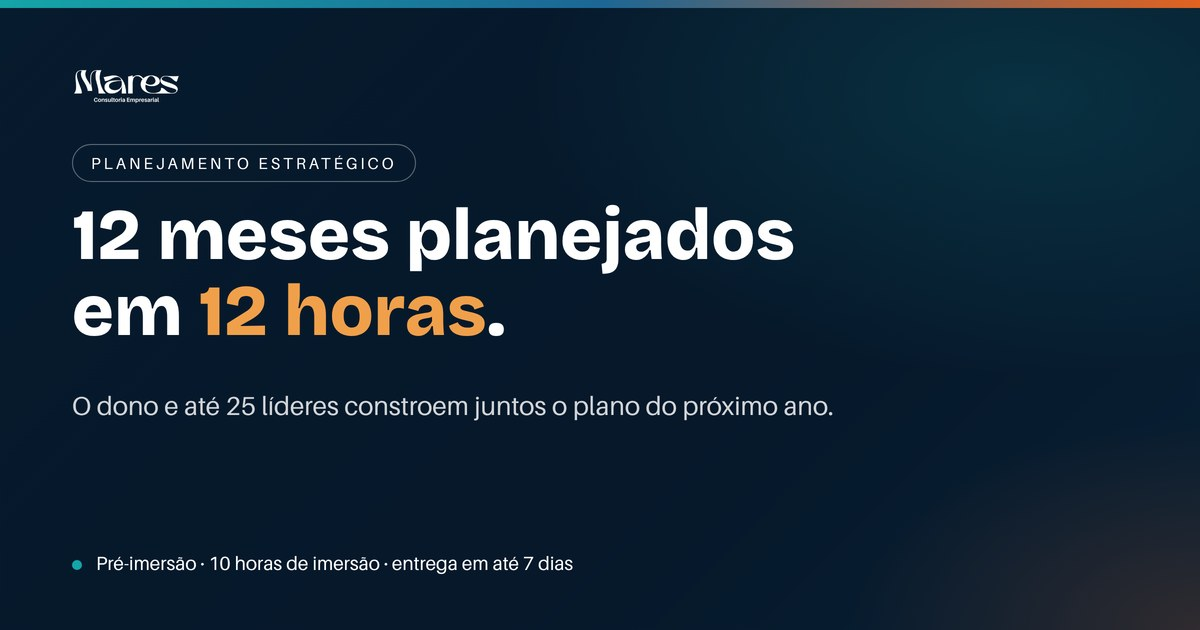
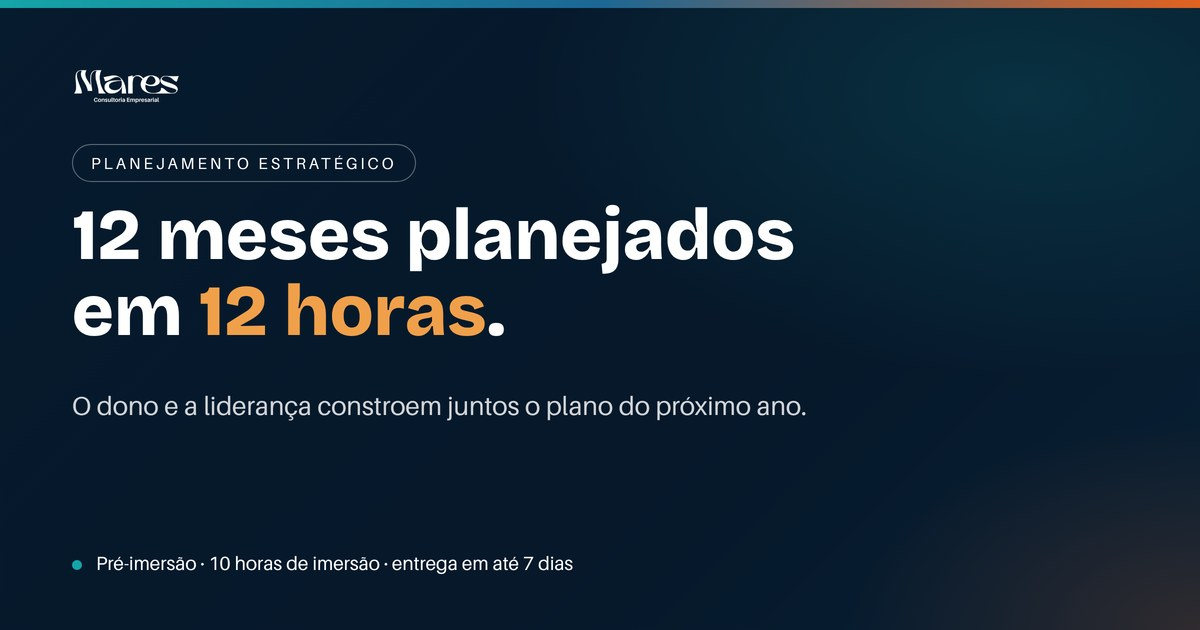
Planejamento Estrategico: tira o destaque do limite de 25 lideres
Claude-Session: https://claude.ai/code/session_01JuXMpkEk4hr855rw9DhNrZ

Changed region(s): [[0.1542, 0.6333, 0.7092, 0.6635]]

diff --git a/planejamento-estrategico/index.html b/planejamento-estrategico/index.html
@@ -4,7 +4,7 @@
 <meta charset="UTF-8">
 <meta name="viewport" content="width=device-width, initial-scale=1.0">
 <title>Planejamento Estratégico em 12 horas | MARES</title>
-<meta name="description" content="Planejamento estratégico com o dono e até 25 líderes: em 12 horas, pelo Método MARES, sua empresa sai com o plano dos próximos 12 meses.">
+<meta name="description" content="Planejamento estratégico com o dono e a sua liderança: em 12 horas, pelo Método MARES, sua empresa sai com o plano dos próximos 12 meses.">
 <link rel="canonical" href="https://www.maresconsultoria.com.br/planejamento-estrategico/">
 <meta property="og:type" content="website">
 <meta property="og:site_name" content="MARES Consultoria Empresarial">
@@ -42,7 +42,7 @@ fbq('init','673278761920486');fbq('track','PageView');
  "name": "12 Meses em 12 Horas",
  "alternateName": "Planejamento Estratégico MARES",
  "serviceType": "Planejamento estratégico empresarial",
- "description": "Planejamento estratégico feito com o dono e até 25 líderes, em 12 horas: 1 hora de pré-imersão com os donos, 10 horas de imersão pelos pilares do Método MARES e 1 hora de entrega final do plano dos próximos 12 meses, em até 7 dias. Formato híbrido.",
+ "description": "Planejamento estratégico feito com o dono e a sua liderança, em 12 horas: 1 hora de pré-imersão com os donos, 10 horas de imersão pelos pilares do Método MARES e 1 hora de entrega final do plano dos próximos 12 meses, em até 7 dias. Formato híbrido.",
  "provider": {
   "@type": "Organization",
   "name": "MARES Consultoria Empresarial",
@@ -73,7 +73,7 @@ fbq('init','673278761920486');fbq('track','PageView');
    "name": "Quem precisa estar na sala?",
    "acceptedAnswer": {
     "@type": "Answer",
-    "text": "O dono e os líderes que respondem por resultado, até 25 pessoas. O dono conduz a estratégia. Os líderes constroem junto, porque plano que o time não ajudou a desenhar é plano que o time não executa."
+    "text": "O dono e os líderes que respondem por resultado, sejam 2 ou 20. Funciona para empresa pequena e para empresa com várias áreas, porque o que muda é a conversa, e não o método. O dono conduz a estratégia. Os líderes constroem junto, porque plano que o time não ajudou a desenhar é plano que o time não executa."
    }
   },
   {
@@ -167,7 +167,7 @@ fbq('init','673278761920486');fbq('track','PageView');
     <div class="eyebrow">Planejamento Estratégico · 12 Meses em 12 Horas</div>
     <h1 class="hero-title">O próximo ano da sua empresa, planejado em 12 horas.</h1>
     <div class="gradbar"></div>
-    <p class="resposta-direta">O <strong>12 Meses em 12 Horas</strong> é o planejamento estratégico da MARES feito com o dono e até 25 líderes. São 12 horas no total: 1 hora de pré-imersão com os donos, <strong>10 horas de imersão</strong> com a liderança, organizadas pelos pilares do Método MARES, e 1 hora de entrega final. Em até 7 dias a empresa recebe o <strong>plano dos próximos 12 meses</strong>, construído por quem vai executar. Formato híbrido, na sua empresa ou online.</p>
+    <p class="resposta-direta">O <strong>12 Meses em 12 Horas</strong> é o planejamento estratégico da MARES feito com o dono e os líderes da sua empresa, sejam dois ou vinte. São 12 horas no total: 1 hora de pré-imersão com os donos, <strong>10 horas de imersão</strong> com a liderança, organizadas pelos pilares do Método MARES, e 1 hora de entrega final. Em até 7 dias a empresa recebe o <strong>plano dos próximos 12 meses</strong>, construído por quem vai executar. Formato híbrido, na sua empresa ou online.</p>
     <div class="cta-row"><a class="btn" href="#conversa">Quero planejar o próximo ano</a></div>
   </div>
 </section>
@@ -193,7 +193,7 @@ fbq('init','673278761920486');fbq('track','PageView');
   <div class="container">
     <div class="eyebrow">Como funciona</div>
     <h2 class="sec-title">12 horas, do alinhamento com o dono ao plano na mão</h2>
-    <p class="lead">O dono conduz a estratégia. Os líderes constroem junto, numa discussão colaborativa com dado na mesa. Até 25 pessoas na sala, em formato híbrido.</p>
+    <p class="lead">O dono conduz a estratégia. Os líderes constroem junto, numa discussão colaborativa com dado na mesa. Em formato híbrido, na sua empresa ou online.</p>
     <div class="steps">
       <div class="step"><div class="sn"></div><h4>Pré-imersão com os donos</h4><p>1 hora, obrigatória. Alinha o que o dono quer do próximo ano antes de abrir a conversa com os líderes.</p></div>
       <div class="step"><div class="sn"></div><h4>Imersão de 10 horas</h4><p>Dono e líderes constroem o plano pelos pilares do Método MARES. Pode ser dividida em mais de um encontro, e é o que eu recomendo.</p></div>
@@ -247,7 +247,7 @@ fbq('init','673278761920486');fbq('track','PageView');
     <div class="stats" id="statsband">
       <div class="stat"><div class="num">12 h</div><div class="lbl">de trabalho, do alinhamento com o dono à entrega do plano</div></div>
       <div class="stat"><div class="num">12 meses</div><div class="lbl">de plano, com meta, dono e prazo em cada frente</div></div>
-      <div class="stat"><div class="num">25</div><div class="lbl">líderes na sala, no máximo, construindo junto com o dono</div></div>
+      <div class="stat"><div class="num">7 dias</div><div class="lbl">para receber o plano consolidado, depois da imersão</div></div>
       <div class="stat"><div class="num">10 anos</div><div class="lbl">de planejamento do estado do Espírito Santo, entregues em 10 meses</div></div>
     </div>
   </div>
@@ -260,7 +260,7 @@ fbq('init','673278761920486');fbq('track','PageView');
     <h2 class="sec-title">Antes de marcar a conversa</h2>
     <div class="faq">
       <div class="qa"><button onclick="toggleFaq(this)">Eu preciso parar a empresa por 10 horas seguidas?<span class="plus">+</span></button><div class="ans"><p>Não precisa. As 10 horas de imersão podem ser divididas em mais de um encontro, e é o que eu recomendo: dois encontros de 5 horas, em dias diferentes, rendem mais do que um dia inteiro e não tiram o time da operação de uma vez.</p></div></div>
-      <div class="qa"><button onclick="toggleFaq(this)">Quem precisa estar na sala?<span class="plus">+</span></button><div class="ans"><p>O dono e os líderes que respondem por resultado, até 25 pessoas. O dono conduz a estratégia. Os líderes constroem junto, porque plano que o time não ajudou a desenhar é plano que o time não executa.</p></div></div>
+      <div class="qa"><button onclick="toggleFaq(this)">Quem precisa estar na sala?<span class="plus">+</span></button><div class="ans"><p>O dono e os líderes que respondem por resultado, sejam 2 ou 20. Funciona para empresa pequena e para empresa com várias áreas, porque o que muda é a conversa, e não o método. O dono conduz a estratégia. Os líderes constroem junto, porque plano que o time não ajudou a desenhar é plano que o time não executa.</p></div></div>
       <div class="qa"><button onclick="toggleFaq(this)">É presencial ou online?<span class="plus">+</span></button><div class="ans"><p>Híbrido. A imersão pode acontecer na sua empresa, online ou nos dois formatos, conforme a sua estrutura e onde o seu time está. Quando a parte presencial é fora de Curitiba, deslocamento e hospedagem ficam por conta da empresa.</p></div></div>
       <div class="qa"><button onclick="toggleFaq(this)">Os meus dados não estão organizados. Dá para fazer assim mesmo?<span class="plus">+</span></button><div class="ans"><p>Dá. Ninguém chega pronto. Na pré-imersão eu levanto com o dono o que existe de número na empresa, e um dos pilares da imersão é justamente definir quais metas importam e como cada uma vai ser medida.</p></div></div>
       <div class="qa"><button onclick="toggleFaq(this)">O que eu recebo no final?<span class="plus">+</span></button><div class="ans"><p>Em até 7 dias depois da imersão eu entrego o plano dos próximos 12 meses consolidado, numa reunião de 1 hora: o momento da marca, as metas com definição e dono, a entrega de cada líder, o papel do marketing nas metas e o modelo de gestão que acompanha o plano o ano inteiro.</p></div></div>

diff --git a/servicos/index.html b/servicos/index.html
@@ -181,7 +181,7 @@ fbq('init','673278761920486');fbq('track','PageView');
      "@type": "Service",
      "name": "Planejamento Estratégico",
      "alternateName": "12 Meses em 12 Horas",
-     "description": "O dono e até 25 líderes constroem juntos, em 12 horas, o plano dos próximos 12 meses pelos pilares do Método MARES.",
+     "description": "O dono e a liderança constroem juntos, em 12 horas, o plano dos próximos 12 meses pelos pilares do Método MARES.",
      "url": "https://www.maresconsultoria.com.br/planejamento-estrategico/"
     }
    },
@@ -263,7 +263,7 @@ fbq('init','673278761920486');fbq('track','PageView');
       <div class="grid2">
         <a class="card" href="/consultoria/"><h3>Consultoria Empresarial</h3><p>Trabalho dentro da empresa, com o seu time junto, nas quatro frentes que sustentam crescimento previsível. O contrato carrega meta de 24% de crescimento em até 12 meses.</p><span class="tag">Conhecer a consultoria</span></a>
         <a class="card" href="/consultoria-educacional/"><h3>Consultoria Educacional</h3><p>Marketing, comercial e análise de dados para IES. Reestruturação da jornada de marketing e da estrutura comercial, com captação para Medicina desde 2019.</p><span class="tag">Conhecer a consultoria educacional</span></a>
-        <a class="card" href="/planejamento-estrategico/"><h3>Planejamento Estratégico</h3><p>12 Meses em 12 Horas: o dono e até 25 líderes constroem juntos o plano do próximo ano, pelos pilares do Método MARES. Plano entregue em até 7 dias.</p><span class="tag">Conhecer o planejamento</span></a>
+        <a class="card" href="/planejamento-estrategico/"><h3>Planejamento Estratégico</h3><p>12 Meses em 12 Horas: o dono e a liderança constroem juntos o plano do próximo ano, pelos pilares do Método MARES. Plano entregue em até 7 dias.</p><span class="tag">Conhecer o planejamento</span></a>
         <a class="card" href="/cursos/"><h3>Cursos</h3><p>Formação de Lideranças, Guia do Autoconhecimento, Liderança Lucrativa, RH 5.0 e o livro A Jornada das Empreendedoras, para aprender no seu ritmo.</p><span class="tag">Ver os cursos</span></a>
         <a class="card" href="/poder-dos-dados/"><h3>Mentoria O Poder dos Dados</h3><p>Mentoria em grupo ao vivo, com hot seat. Para o líder que quer parar de decidir no achismo e passar a crescer com previsibilidade. Turmas pequenas.</p><span class="tag">Conhecer a mentoria</span></a>
         <a class="card" href="/imersao/"><h3>Imersões</h3><p>Encontros online e gratuitos, em poucas noites, para o empresário enxergar com número onde o crescimento trava, montar o mapa de indicadores e sair com um plano de 90 dias na mão.</p><span class="tag">Saber da próxima turma</span></a>
